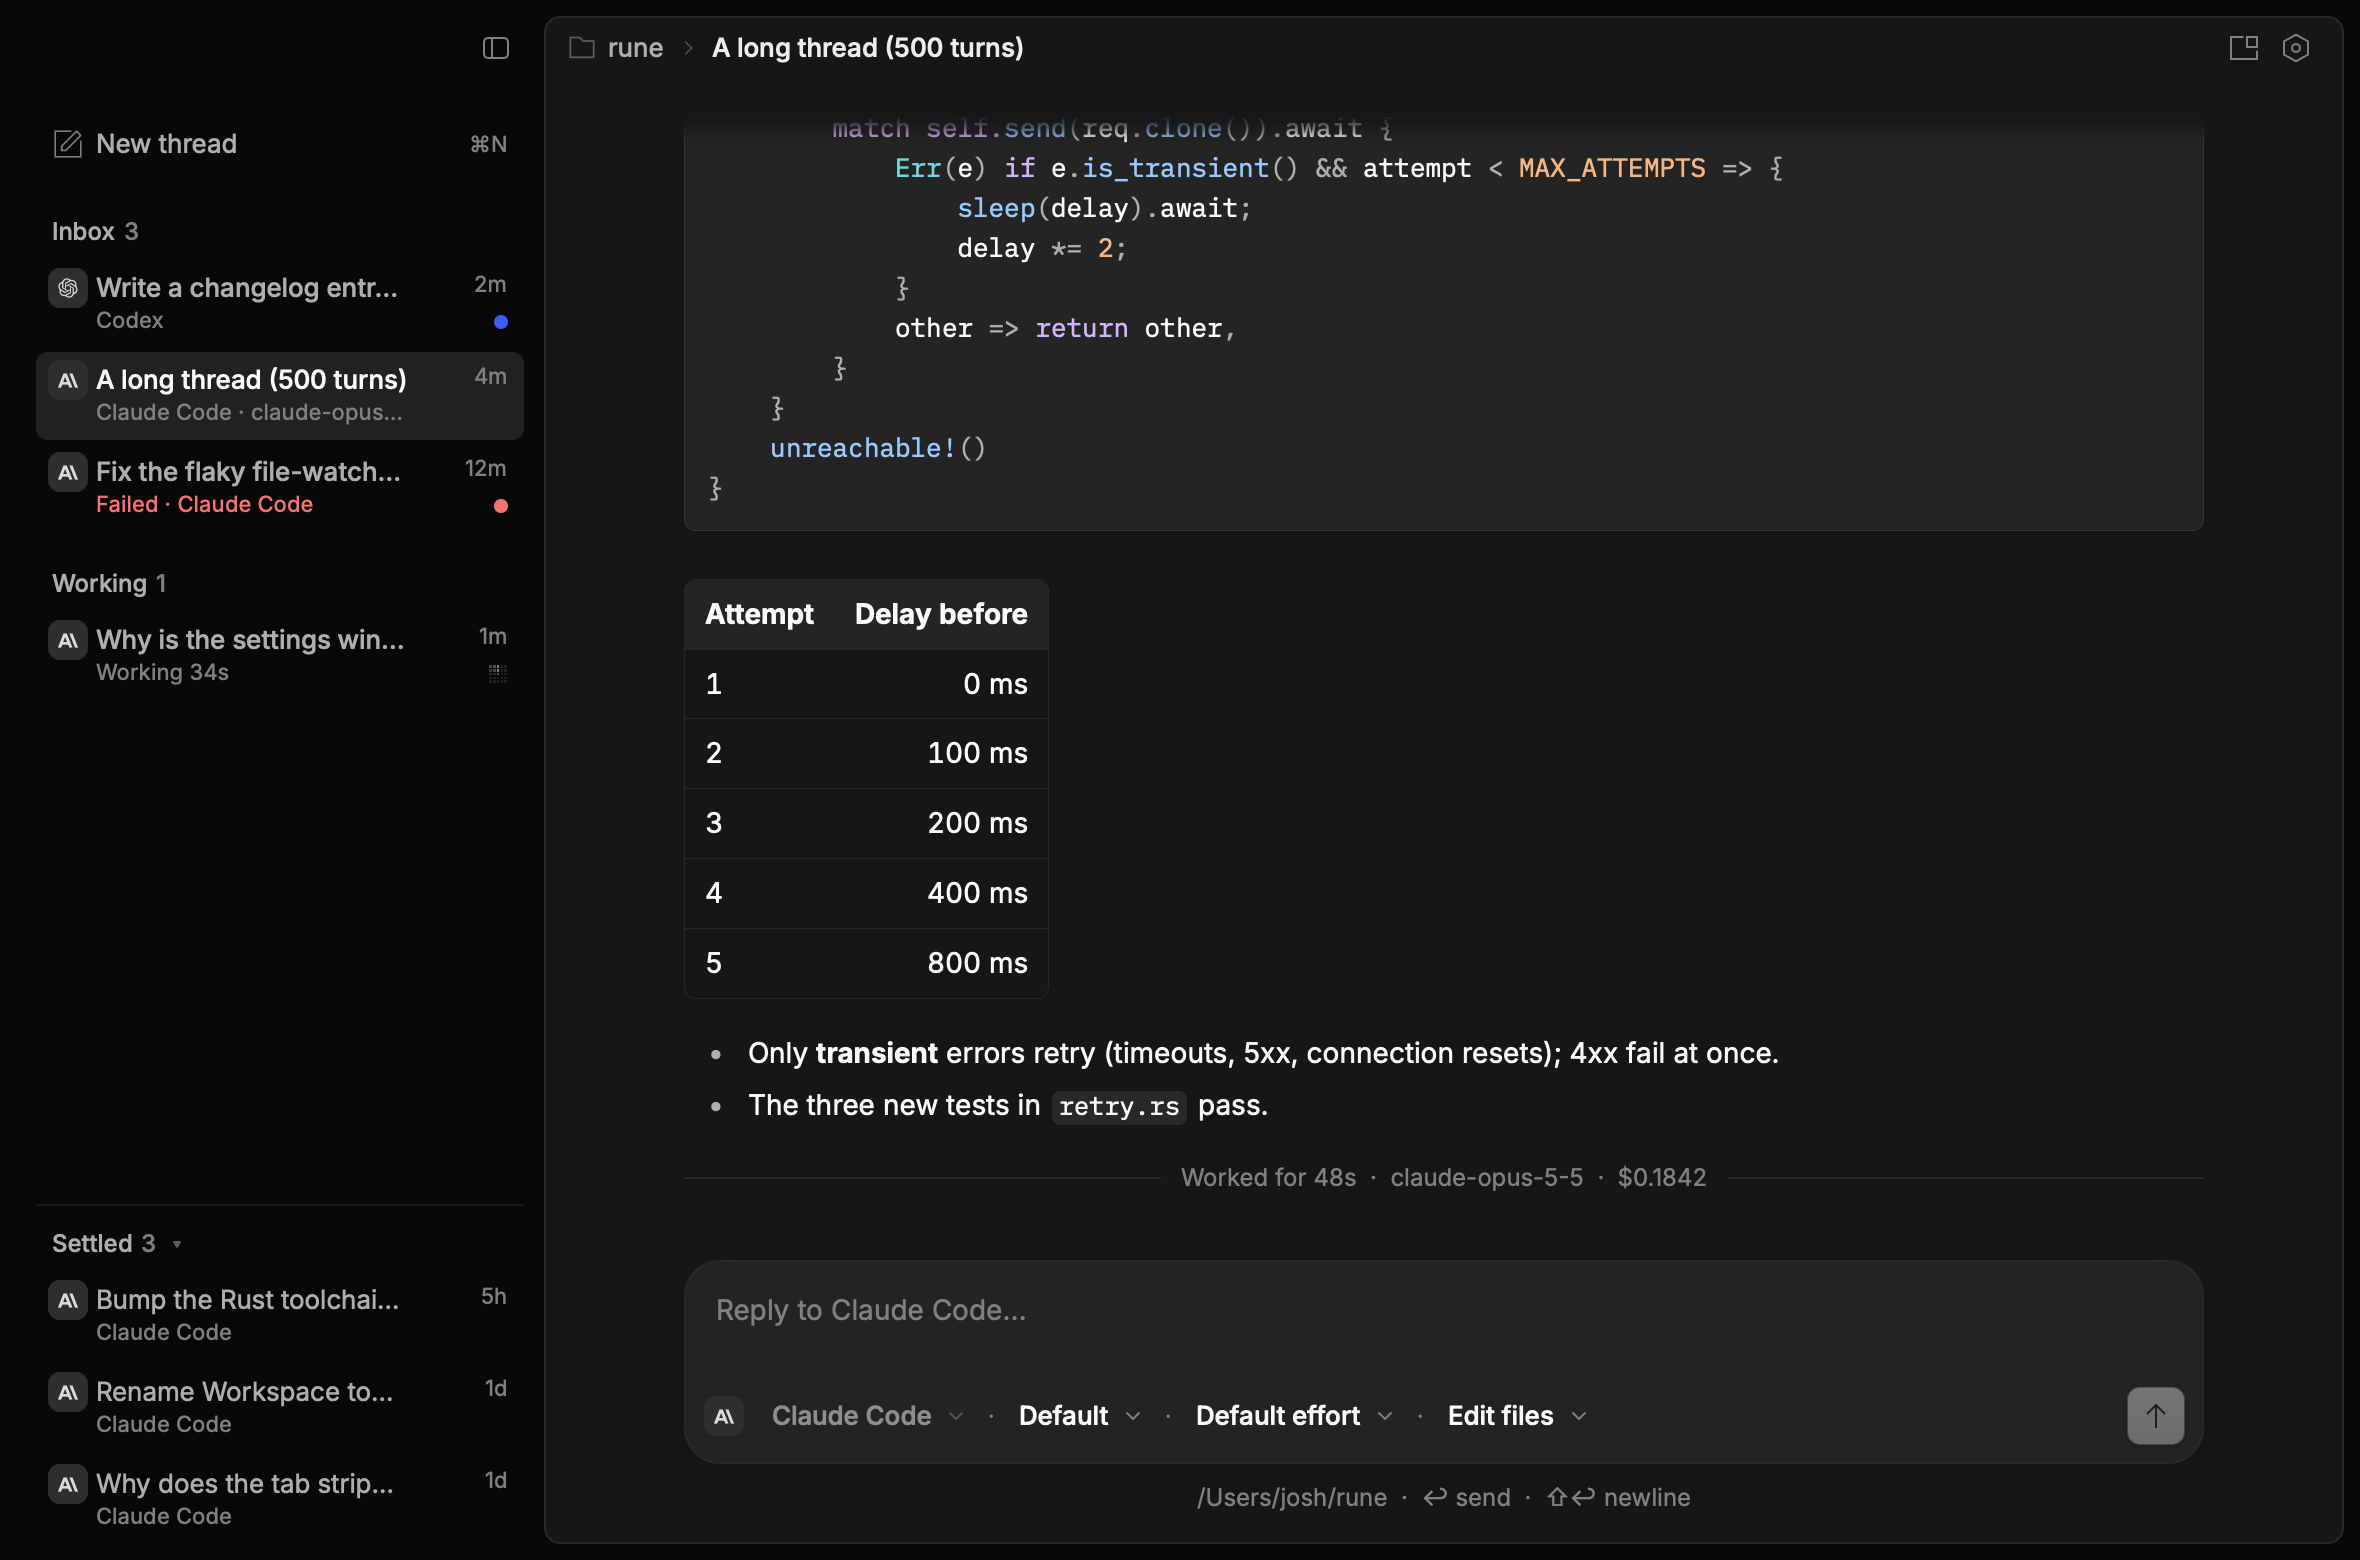
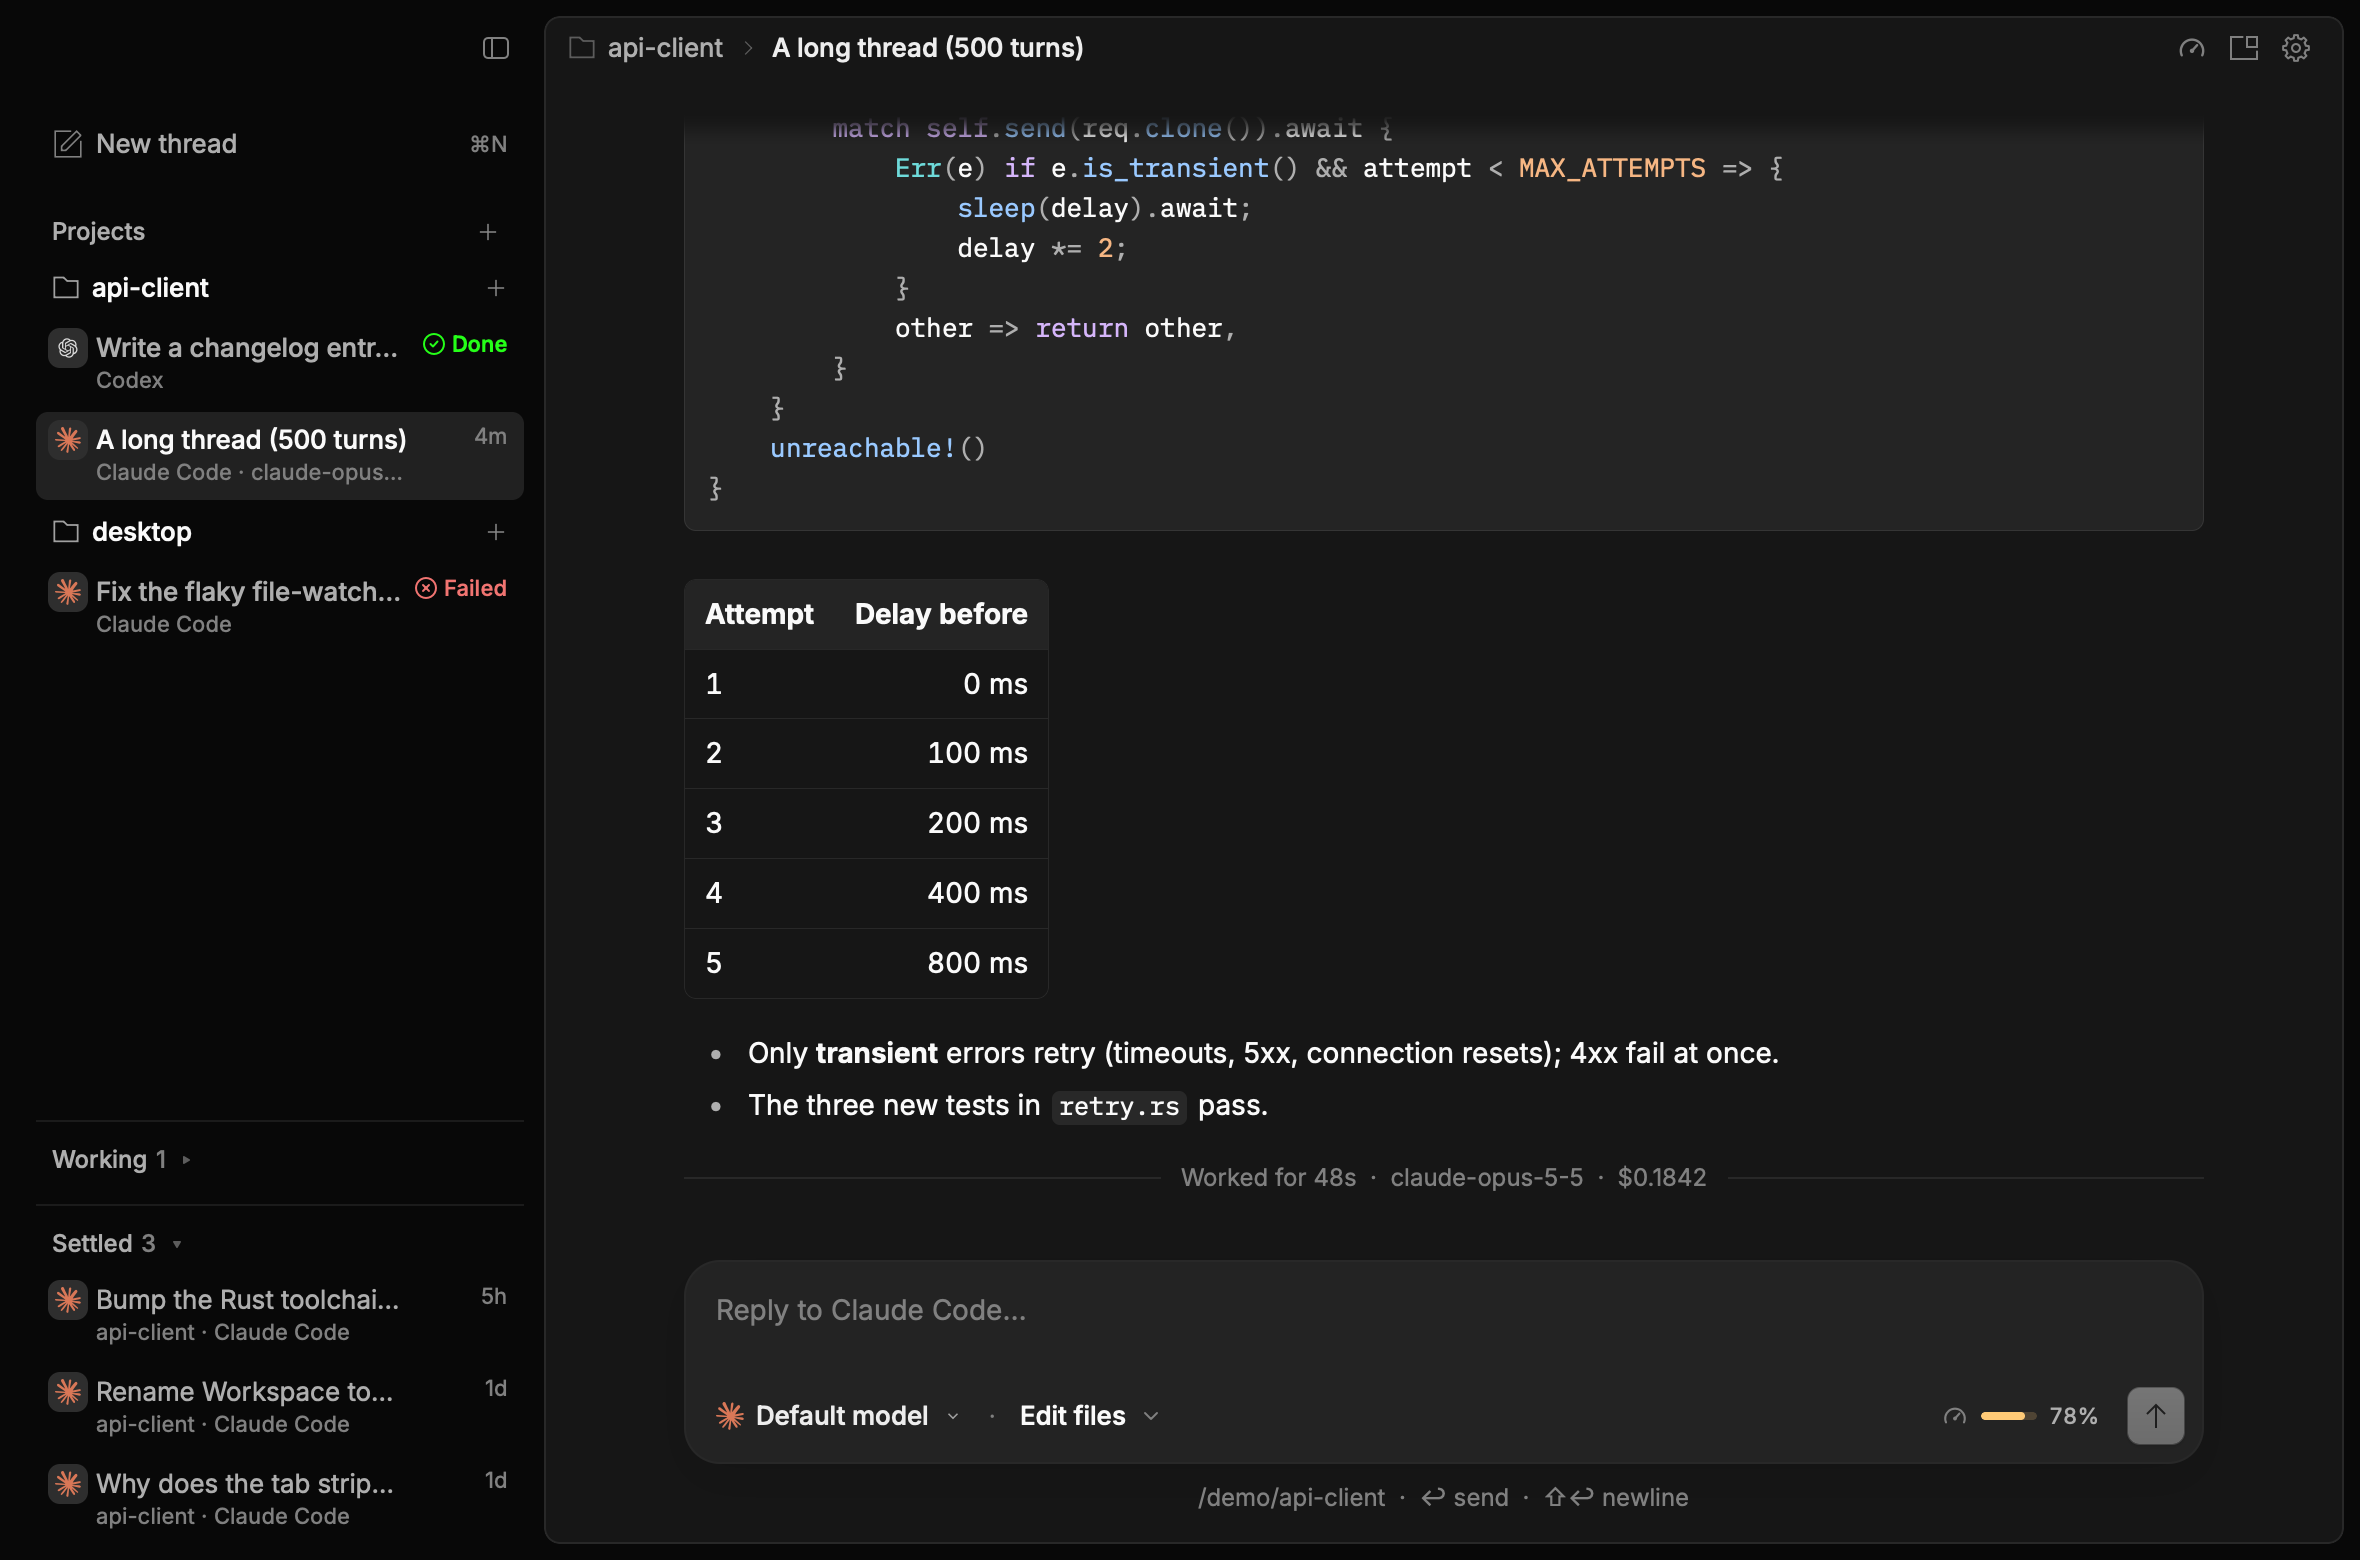
Screenshots: re-rendered for Yoke, from a script
scripts/shots.sh renders shots/ from the demo scenes with a scratch HOME,
so no real settings, projects or threads show. The demo scenes now put
their threads in two stand-in projects (api-client, desktop), and the
empty scene keeps the projects with their settled threads.

diff --git a/src/app.rs b/src/app.rs
@@ -1619,6 +1619,12 @@ pub mod scenes {
         }
         let ago = |m: u64| SystemTime::now() - Duration::from_secs(60 * m);
         (w.updated, t.updated, c.updated, f.updated) = (ago(1), ago(4), ago(2), ago(12));
+        // Two stand-in projects, so the snapshots show none of yours.
+        let (api, desktop) = (PathBuf::from("/demo/api-client"), PathBuf::from("/demo/desktop"));
+        s.projects = vec![Project::new(api.clone()), Project::new(desktop.clone())];
+        s.current = Some(api.clone());
+        (t.project, c.project, w.project, f.project) = (api.clone(), api.clone(), desktop.clone(), desktop);
+        for x in &mut settled { x.project = api.clone(); }
         s.threads = vec![w, t, c, f];
         s.threads.extend(settled);
         s.settled_open = true;
@@ -1782,8 +1788,10 @@ pub mod scenes {
     }
 
     pub fn empty(s: &mut App) {
-        s.threads.clear();
+        demo(s);
+        s.threads.retain(|t| t.settled);
         s.selected = None;
+        s.draft.focused = true;
     }
 
     const DEMO_ANSWER: &str = "Done. `fetch` now retries transient failures with exponential backoff:\n\n\

diff --git a/README.md b/README.md
@@ -167,6 +167,7 @@ Rune runs any app headless, using the same renderer:
 ```sh
 cargo build
 target/debug/yoke --snap out.png --scene demo --size 1180x780 --theme light   # scenes: demo long empty picker effort settings usage usage-popover queue approval attach collapsed
+scripts/shots.sh                                              # re-renders shots/ (a scratch HOME, so none of your threads show)
 cargo test                                                    # parsers, shortcuts, queue/steer and approvals (against a stand-in claude)
 cargo test -- --ignored live_claude --nocapture               # drives the real `claude` through the UI (costs a few tokens)
 cargo test -- --ignored live_usage --nocapture                # reads the real plan limits and transcripts (no tokens)
